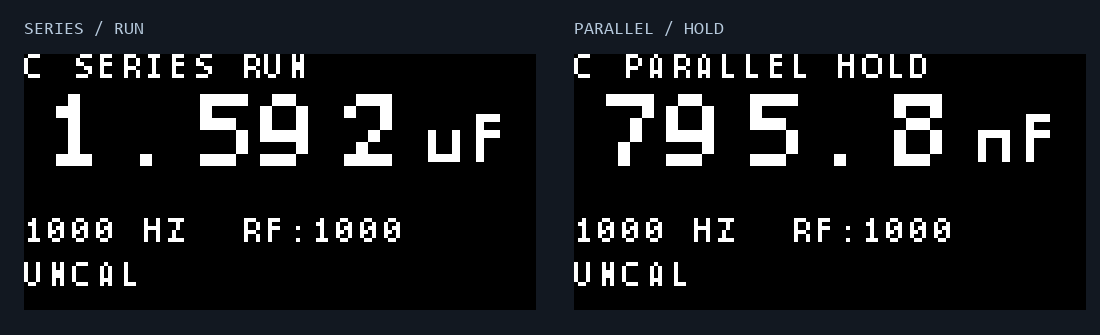
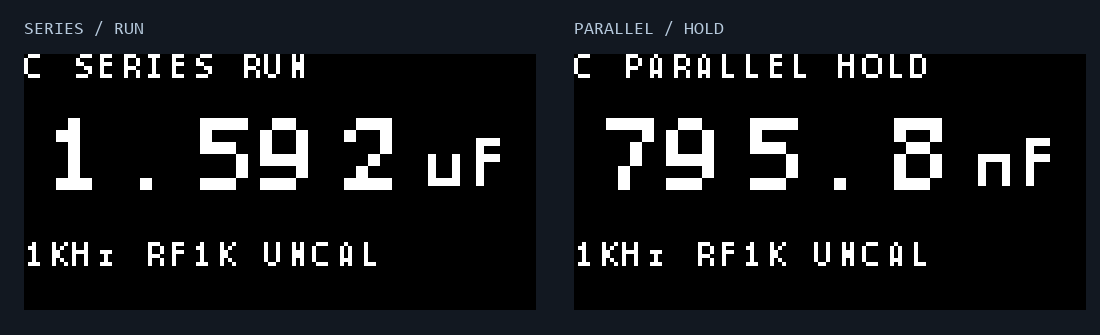
feat(ui): move value line into the blue area; merge freq/range/cal into one info line

diff --git a/firmware_next/src/lcr_ui.c b/firmware_next/src/lcr_ui.c
@@ -142,7 +142,9 @@ void lcr_ui_measure(lcr_canvas *c, const lcr_measurement *m, lcr_model model, co
     const unsigned digits = (unsigned)strlen(text);
     const unsigned unit_len = separator ? (unsigned)strlen(separator) : 0u;
     unsigned value_scale = 2u;
-    const unsigned value_y = details ? 14u : 10u;
+    /* Keep the big number fully inside the blue area of the two-colour panel
+       (top 16 rows of a 0.96" OLED are yellow). */
+    const unsigned value_y = 16u;
     if (!details) {
         const unsigned wide = digits * 18u + (unit_len ? 4u + unit_len * 6u : 0u);
         if (wide <= 128u) value_scale = 3u;
@@ -156,8 +158,7 @@ void lcr_ui_measure(lcr_canvas *c, const lcr_measurement *m, lcr_model model, co
     if (separator)
         lcr_canvas_text(c, value_x + digits * 6u * value_scale + 4u,
                         value_y + 10u * (value_scale - unit_scale) / 2u, separator, unit_scale);
-    const unsigned info_y = details ? 37u : 41u;
-    const unsigned cal_y = details ? 50u : 52u;
+    const unsigned info_y = details ? 37u : 47u;
     if (m && m->valid && m->range_index < LCR_RANGE_COUNT) {
         if (details) {
             char number[24],q[16],d[16];
@@ -169,17 +170,19 @@ void lcr_ui_measure(lcr_canvas *c, const lcr_measurement *m, lcr_model model, co
             if(m->parameters.available&LCR_PARAM_D)lcr_ui_number(d,sizeof(d),m->parameters.d,"");
             else (void)snprintf(d,sizeof(d),"--");
             (void)snprintf(text,sizeof(text),"Q:%s D:%s",q,d);
+            lcr_canvas_text(c, 0u, info_y + 13u, text, 1u);
         } else {
-            (void)snprintf(text, sizeof(text), "%lu HZ  RF:%lu", (unsigned long)(m->actual_hz + 0.5),
-                           (unsigned long)lcr_nominal_rf[m->range_index]);
+            char fbuf[10], rbuf[10];
+            const unsigned long hz = (unsigned long)(m->actual_hz + 0.5);
+            const unsigned long rf = (unsigned long)lcr_nominal_rf[m->range_index];
+            if (hz >= 1000ul) (void)snprintf(fbuf, sizeof(fbuf), "%luKHz", hz / 1000ul);
+            else (void)snprintf(fbuf, sizeof(fbuf), "%luHz", hz);
+            if (rf >= 1000000ul) (void)snprintf(rbuf, sizeof(rbuf), "%luM", rf / 1000000ul);
+            else if (rf >= 1000ul) (void)snprintf(rbuf, sizeof(rbuf), "%luK", rf / 1000ul);
+            else (void)snprintf(rbuf, sizeof(rbuf), "%luR", rf);
+            (void)snprintf(text, sizeof(text), "%s RF%s %s", fbuf, rbuf,
+                           m->calibration_flags ? "CAL" : "UNCAL");
             lcr_canvas_text(c, 0u, info_y, text, 1u);
-            if(!m->calibration_flags) (void)snprintf(text,sizeof(text),"UNCAL%s",m->parameters.negative_resistance?" NEG-R":"");
-            else (void)snprintf(text,sizeof(text),"CAL:%s%s%s%s",
-                m->calibration_flags&LCR_CAL_CHANNEL?"CH ":"",
-                m->calibration_flags&LCR_CAL_FEEDBACK?"RF ":"",
-                m->calibration_flags&LCR_CAL_FIXTURE?"OPEN":"",
-                m->parameters.negative_resistance?" NEG-R":"");
         }
-        lcr_canvas_text(c, 0u, cal_y, text, 1u);
     } else lcr_canvas_text(c, 0u, 47u, "KEY:START HOLD:MENU", 1u);
 }
